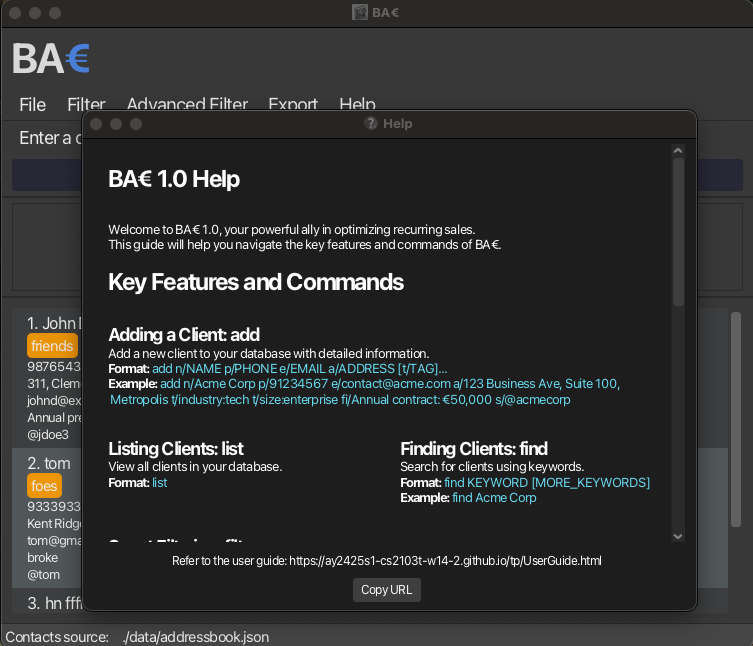
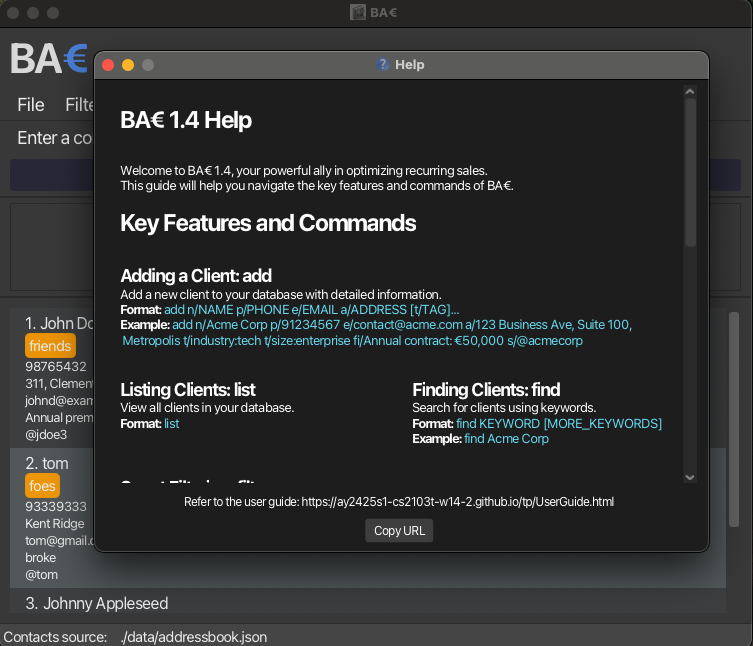
Minor help menu fix

diff --git a/src/main/java/seedu/address/ui/HelpWindow.java b/src/main/java/seedu/address/ui/HelpWindow.java
@@ -56,9 +56,9 @@ public class HelpWindow extends UiPart<Stage> {
 
     private void setHelpText() {
         helpTextFlow.getChildren().addAll(
-                createHeader("BA€ 1.0 Help                                                    "),
+                createHeader("BA€ 1.4 Help                                                    "),
                 createParagraph(
-                        "Welcome to BA€ 1.0, your powerful ally in optimizing recurring sales.",
+                        "Welcome to BA€ 1.4, your powerful ally in optimizing recurring sales.",
                         "This guide will help you navigate the key features and commands of BA€."
                 ),
                 createHeader("Key Features and Commands"),
